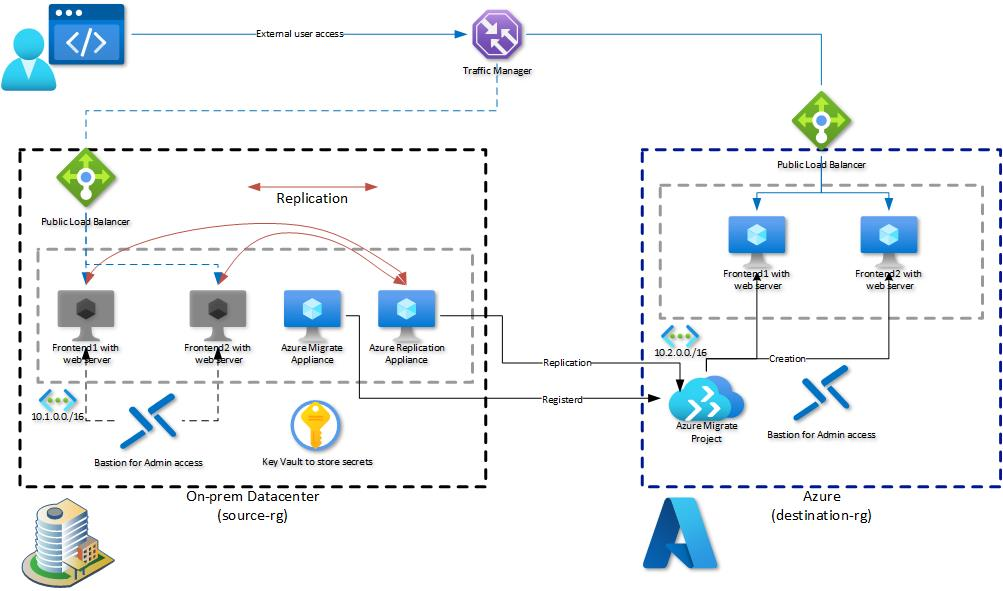
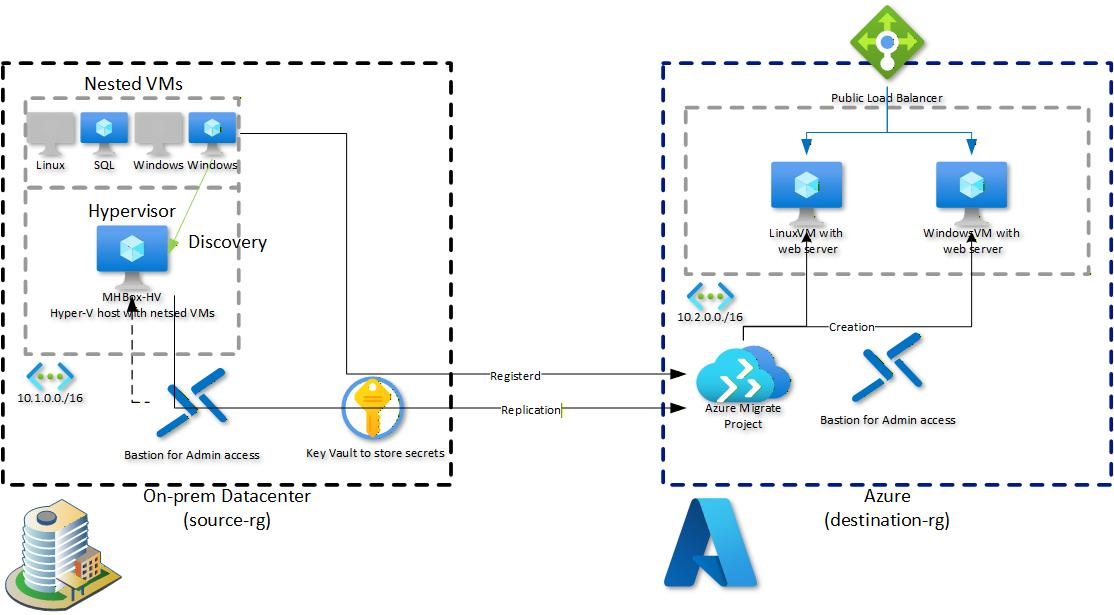
Update CH5

diff --git a/03-Azure/01-03-Infrastructure/06_Migration_Secure_AI_Ready/walkthrough/challenge-5/solution.md b/03-Azure/01-03-Infrastructure/06_Migration_Secure_AI_Ready/walkthrough/challenge-5/solution.md
@@ -169,23 +169,23 @@ Provide a comment and click on *Cleanup test* to remove the previousley created 
 > [!Note]
 > **Repeat the above steps for the other VM**
 
-### **Task : Prepare Final Migration**
+### **Task 4: Prepare Final Migration**
 
-Currently the two frontend servers are published via an Azure Public Load Balancer. After the migration, the original server will be turned off. Therefore the access to the system via the Azure Public Load Balancer will be broken. To prepare for the migration and to keep downtime as short as possible some pre-migration steps should be performed.
+Currently the two servers are not directly published and are not accessable directly. After the migration, the original server will be turned off. Therefore the access to the system needs to be updated. To prepare for the migration and to keep downtime as short as possible some pre-migration steps should be performed.
 
-#### **Task 6.1: Create a new Azure Public Load Balancer in the destination environment**
+#### **Task 4.1: Create a new Azure Public Load Balancer in the destination environment**
 
 From the Azure Portal open the Load Balancing blade, select Load Balancer on the Navigation pane on the left and click *Create*.
 
-![image](./img/prep1.png)
+![image](./img/LB1.png)
 
 Under *Basics* select the *destination-rg* Resource Group and provide a name for the new Load Balancer.
 
-![image](./img/prep2.png)
+![image](./img/LB2.png)
 
 Under *Frontend IP configuration*, click *Add a frontend IP configuration* and create a new Public IP address.
 
-![image](./img/prep3.png)
+![image](./img/LB3.png)
 
 Under *Backend Pools*, select *Add a backend Pool*. Provide a name and select the *destination-vnet* as the Virtual Network.
 Add *10.2.1.4* and *10.2.1.5* as the IP addresses.
@@ -193,103 +193,74 @@ Add *10.2.1.4* and *10.2.1.5* as the IP addresses.
 > [!NOTE]
 > Please note: Azure reserves the first four addresses (0-3) in each subnet address range, and doesn't assign the addresses. Azure assigns the next available address to a resource from the subnet address range. So it is predictable which IP addresses will be assigned to the destination VMs after the migration.
 
-![image](./img/prep4.png)
+![image](./img/LB4.png)
 
 Under *Inbound rules* click on *Add a load balancing rule* and create the load balancing rule as illustrated on the following diagram.
 
-![image](./img/prep5.png)
+![image](./img/LB5.png)
 
-Under *Outbound rules* click *Add an outbound rule* and create the outbound rule as illustrated on the following diagram.
-
-![image](./img/prep6.png)
+We are already using a NAT GW to provide outbound Internet access. We don't need a Outbound rule and can skip this part.
 
 Proceed to the *Review + create* section, review your configuration and click *Create*
 
-![image](./img/prep7.png)
+![image](./img/LB6.png)
 
-Wait until the load balancer has been created, cahnge back to the *Load balancing* section, select the *plb-frontend* Load Balancer and click *Frontend IP configuration* from the navigation pane on the left. Note down the Public IP of the *LoadBalancerFrontEnd* configuration. Repeat the step for the *plb-frontend-dest* Load Balancer.
+Wait until the load balancer has been created, change back to the *Load balancing* section, select the Load Balancer and from the *Overview* pane copy the *Frontend IP address*. Note down the Public IP of the Load Balancer as we need it after the migration.
 
-![image](./img/prep8.png)
-
-#### **Task 6.2: Create a new Azure Traffic Manager Profile**
-
-Azure Traffic Manager is a DNS-based traffic load balancer. It allows us to distribute traffic to public facing endpoints like our two Public Load Balancer. Traffic Manager can be created in advance to distribute traffic among the old and new load balancer. The DNS conbfiguration of the application can be changed in advance to point to the Traffic Manager Profile instead to the Public IP of the Load Balancer. Using this approach makes sure that Traffic Manager automatically removes the old Load Balancer after the frontend servers were migrated.
-
-From the Azure Portal open the Load Balancing blade, select Traffic Manager on the Navigation pane on the left and click *Create*.
-
-![image](./img/prep9.png)
-
-Select a name for the Traffic Manager profile and select the *destination-rg* as the Resourec Group.
-
-![image](./img/prep10.png)
-
-From the Load Balancing overview page select *Traffic Manager* and select the previously created Traffic Manager profile. 
-Select *Endpoints* and click *Add*. Add each public IP of the source and destination Load Balancer as separate endpoints.
-
-![image](./img/prep11.png)
-
-> [!NOTE]
-> Please note: To be able to add the public IP addresses they need to be configured with an [DNS name lable](https://learn.microsoft.com/en-us/azure/dns/dns-custom-domain?toc=%2Fazure%2Fvirtual-network%2Ftoc.json#public-ip-address).
-
-![image](./img/prep11-1.png)
-
-Check the Overview section under the navigation pane and note that the source load balancer is shown as *online* whereas the 
-destination load balancer is shown as *degraded*. If you copy the DNS name of the Traffic Manager profile and paste it into your browser, you should be able to browse the source web servers through the Traffic Manager Profile.
-
-![image](./img/prep12.png)
-
-![image](./img/prep13.png)
+![image](./img/LB7.png)
 
 ### **Task 7: Perform Final Migration**
 
-Open the [Azure Portal](https://portal.azure.com) and navigate to the previousley created Azure Migrate project. Select *Servers, databases and web apps*, make sure that the right Azure Migrate Project is selected and click *Overview* in the *Migration tools* box. From the Overview section click in *Migrate* under *Step 3: Migrate*.
+Open the [Azure Portal](https://portal.azure.com) and navigate to the previousley created Azure Migrate project. Select *Migrations* from the navigation pane and click on *Migrate*.
 
-![image](./img/finalmig1.png)
+![image](./img/mig1.png)
 
 Select *AzureVM* and click *Continue*.
 
-![image](./img/finalmig1-2.png)
+![image](./img/mig2.png)
 
-Select *No* because shutdown of source machines is only supported for HyperVisor based migrations, select the two servers and click *Migrate*.
+Select the VMs you want to migrate and click on *Yes* to also shutdown the VMs on the Hyper-V host.
 
-![image](./img/finalmig2.png)
+![image](./img/mig3.png)
 
-You can check the progress of the migration under the *Jobs* section within the navigation pane.
+You can check the progress of the migration under the *Jobs* section within the *Replication Summary* section of the Azure Migrate Project.
 
-![image](./img/finalmig3.png)
+![image](./img/mig4.png)
+
+You can also click on each job to review the current status of the migration. 
+
+![image](./img/mig5.png)
 
 After a few minutes the migration should be successfully completed.
 
-![image](./img/finalmig4.png)
+![image](./img/mig7.png)
+
+On the Hyper-V Host, the 2 VMs should also be turned off.
+
+![image](./img/mig6.png)
 
 When you change to the *Virtual machine* section within the Azure Portal you should now see 2 additional serves in the *destination-rg* Resource Group.
-Please select the original source Virtual Machines and click on *Stop* to shutdown the source VMs.
 
-![image](./img/finalmig5.png)
+![image](./img/mig8.png)
 
-Change to the Azure Traffic Manager profile you've created previousley and look at the endpoints. Please note that the *fe-source* endpoint is now shown as degraded and that the *fe-dest* endpoint is shown as online.
+You should now also be able to access the Web Server via the previousley created load balancer frontend IP.
 
-![image](./img/finalmig6.png)
-
-From a user perspective nothing changed. You're still able to browse the Traffic Manager profile DNS name and you will be transparently redirected to the web servers that are know running in Azure.
-
-![image](./img/finalmig7.png)
+![image](./img/mig9.png)
 
 🚀🚀🚀🚀🚀🚀 Congratulations, you've successfully migrated the frontend application to Azure.🚀🚀🚀🚀🚀🚀
 
 ### **Task 8: Cleanup**
 
-After the successfull migration you can now stop replicating the source virtual machines. Open the [Azure Portal](https://portal.azure.com) and navigate to the previousley created Azure Migrate project. Select *Servers, databases and web apps*, make sure that the right Azure Migrate Project is selected and click *Overview* in the *Migration tools* box. In the *Azure Migrate: Migration and modernization* pane, select *Replicating machines* from the navigation pane on the left, click on the 3 dots on the end of each row of the replicating servers and select *Stop replicating*.
+After the successfull migration you can now stop replicating the source virtual machines. Open the [Azure Portal](https://portal.azure.com) and navigate to the previousley created Azure Migrate project. Select *Migrations -> Replication summary*. Click on *Replications* and then click on the 3 dots on the end of each row of the replicating servers and select *Stop replicating*.
 
-![image](./img/finalmig8.png)
+![image](./img/clean1.png)
 
-Select *Stop replication and remove replication settings* from the drop down list and click *OK*. Repeat this step for the remaining Server.
+Select *Stop replication and remove replication settings* from the drop down list and click *OK*. 
 
-![image](./img/finalmig9.png)
+![image](./img/clean2.png)
 
-From the Traffic Manager Profile you can now also safley remove the endpoint for the source load balancer.
-
-![image](./img/finalmig10.png)
+> [!NOTE]
+> Repeat this step for the remaining Server.
 
 🚀🚀🚀 You successfully completed challenge 5! 🚀🚀🚀
 
